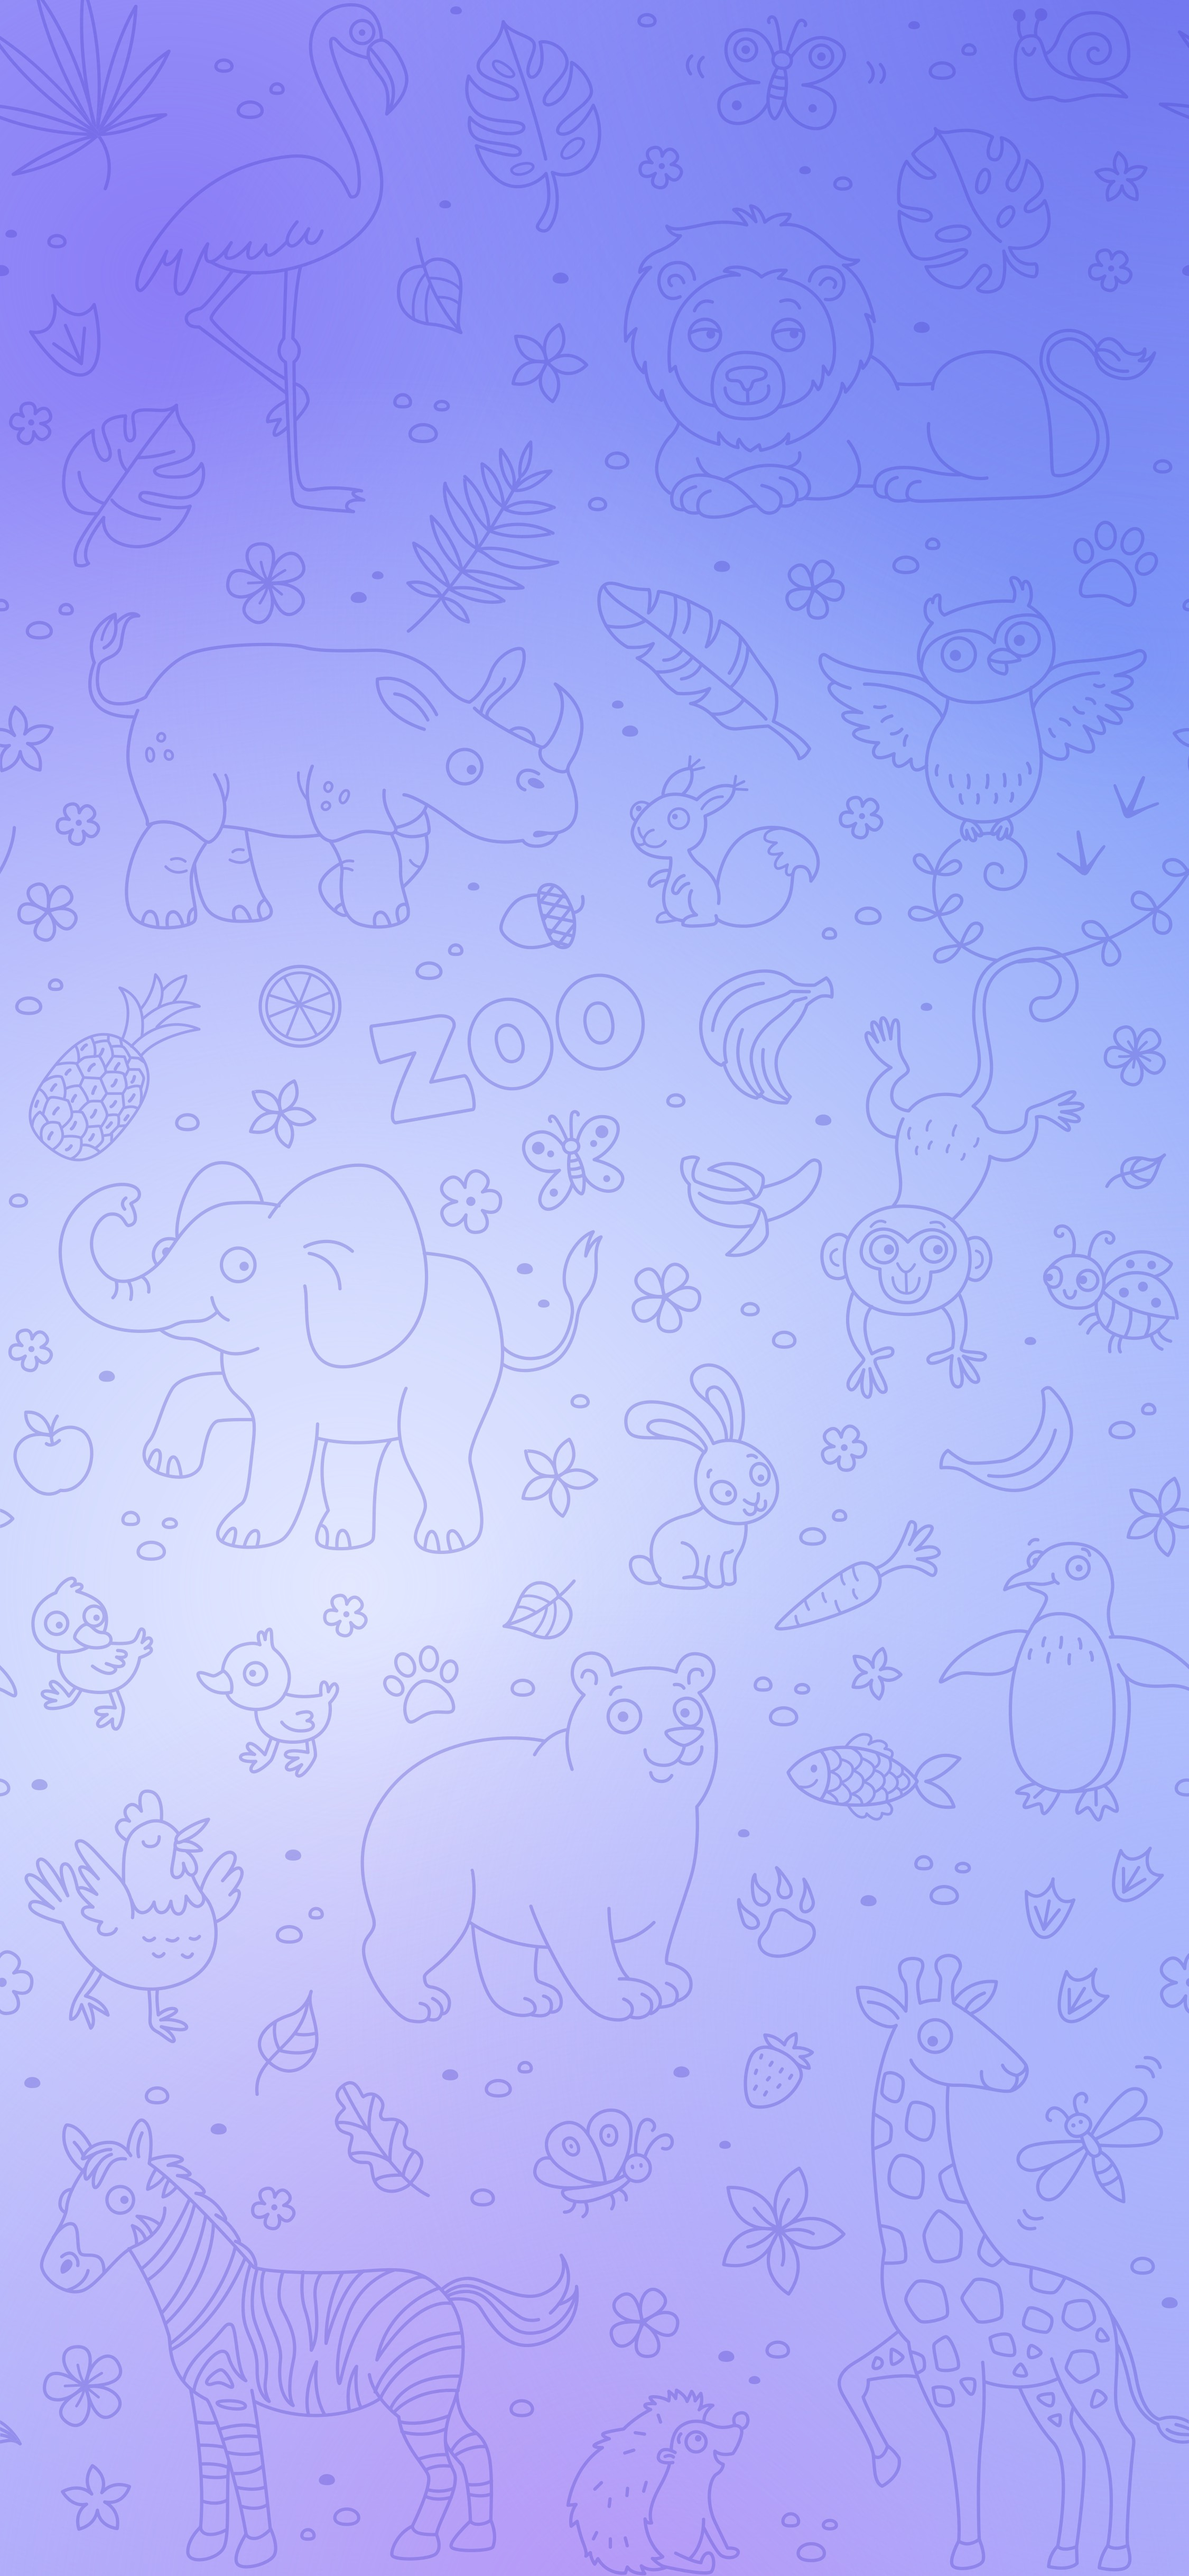
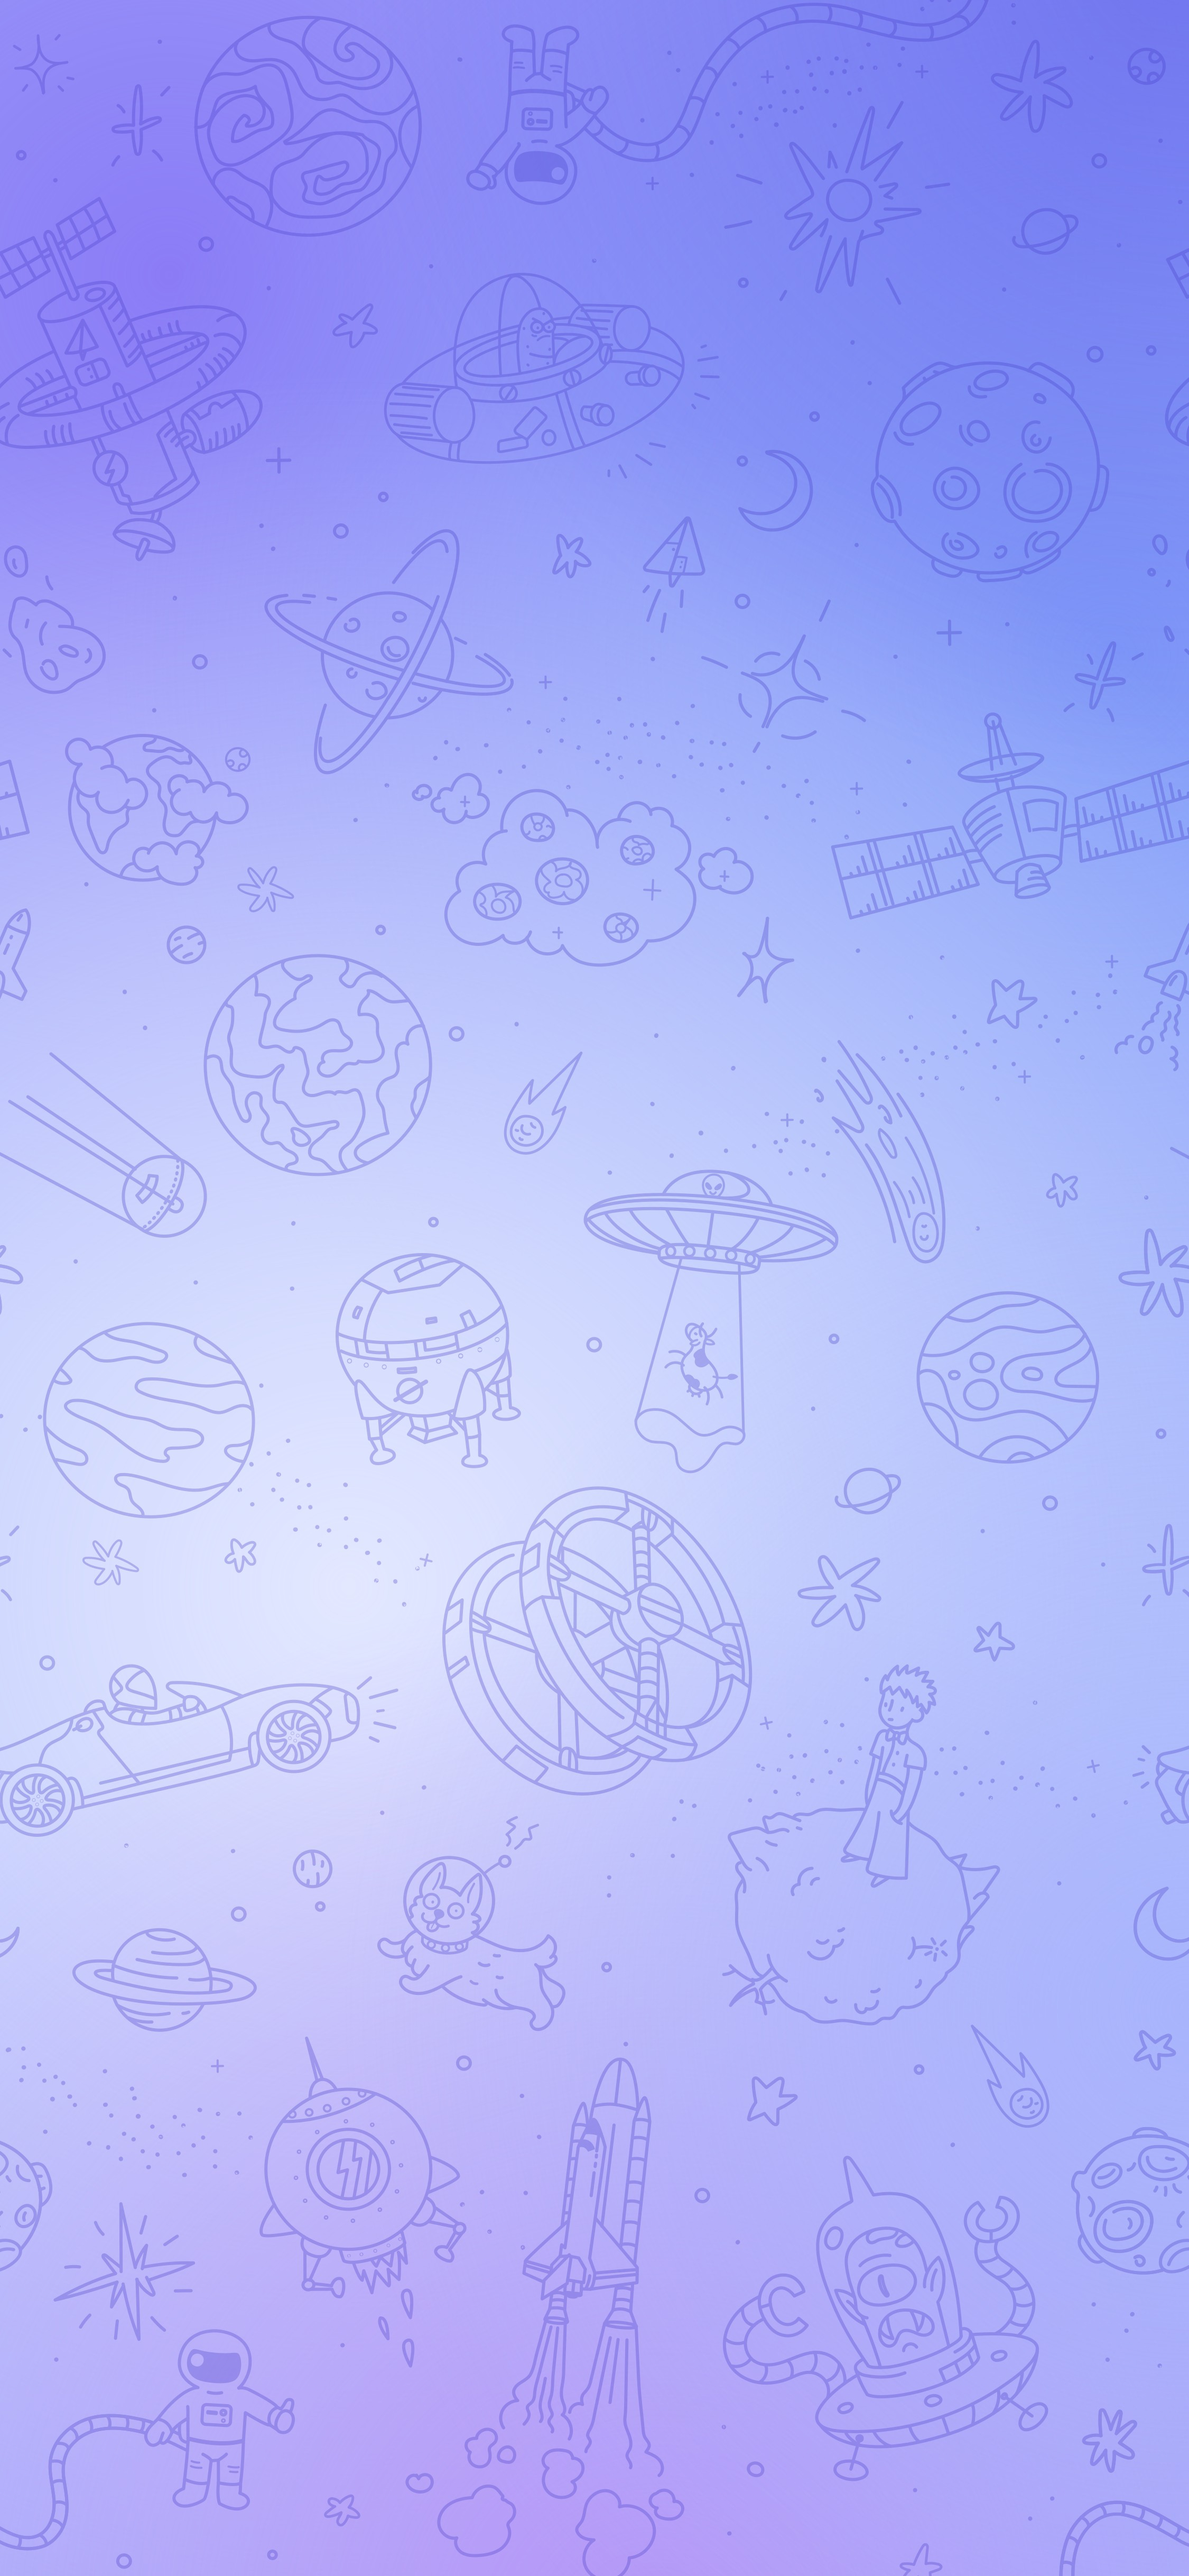
style(storefront): space-themed notifications background
Claude-Session: https://claude.ai/code/session_016tUZiXaKwTNWT5CBJCaqcb

diff --git a/CLAUDE.md b/CLAUDE.md
@@ -26,6 +26,10 @@ Variant/موجودی/سفارش/پرداخت/تخفیف. Full specification در
 
 ## 2. Current Status
 
+**آخرین کار: پسزمینهٔ `/notifications` برای مقایسه با طرح «فضایی» (سیاره/فضانورد) جایگزین شد (طرح باغوحش قبلی در Commit `29db8a3` است).** فقط `public/images/notifications-chat-bg.jpg` عوض شد. **NOT VERIFIED:** ظاهر روی گوشی واقعی.
+
+---
+
 **آخرین کار: پسزمینهٔ صفحهٔ `/notifications` با طرح جدید (باغوحش، گرادیان بنفش) عوض شد.** فقط فایل `public/images/notifications-chat-bg.jpg` (JPEG، کیفیت ۹۰) و رنگ Fallback (`#a9aef5`) در `notifications-chat.tsx` تغییر کرد. **NOT VERIFIED:** ظاهر روی گوشی واقعی و خوانایی حبابها روی پسزمینهٔ جدید.
 
 ---
@@ -90,7 +94,7 @@ Variant/موجودی/سفارش/پرداخت/تخفیف. Full specification در
 
 **آخرین کار: بازطراحی صفحه `/notifications` به سبک چت پیامرسان (Storefront).**
 
-- **UI:** `notifications-chat.tsx` (Client) + `notification-bubble.tsx` + `notification-cards.tsx` + `notification-actions.tsx`. قدیمیترین بالا، جدیدترین پایین؛ جداکنندهٔ روز («امروز/دیروز/۷ آبان»)، ساعت هر پیام (Asia/Tehran)، تیک تکی = دیدهنشده و تیک دوتایی آبی = دیدهشده (فقط کاربر واردشده؛ Guest تیک ندارد). **چیدمان (بازخورد کاربر):** حبابها سمت چپ (`self-end` در RTL)؛ برچسب نوع (سیستم/سفارش/...) پررنگ و به رنگ تم (`--color-primary`) بالای حباب؛ تصویر بعد از آن؛ **عنوان اعلان زیر تصویر** (بدون تصویر بالای متن) و آن هم به رنگ تم؛ دکمهٔ بازگشت هدر سمت چپ (`ArrowLeft`)؛ ردیف پایین حباب سمت راست با ترتیب «تیک، ساعت»؛ تصویر با فاصلهٔ ۴px از لبهٔ حباب و `rounded-[6px]`. پسزمینه `public/images/notifications-chat-bg.jpg` = **فایل اصلی کاربر بدون Resize** (جدید: طرح باغوحش بنفش، ۲۲۵۰×۴۸۷۲) با `next/image` + `unoptimized` (نسخهٔ ۹۰۰px اولیه روی موبایل زوم و تار بود) و لایهٔ `fixed` (روی دسکتاپ نسبت به قاب موبایل).
+- **UI:** `notifications-chat.tsx` (Client) + `notification-bubble.tsx` + `notification-cards.tsx` + `notification-actions.tsx`. قدیمیترین بالا، جدیدترین پایین؛ جداکنندهٔ روز («امروز/دیروز/۷ آبان»)، ساعت هر پیام (Asia/Tehran)، تیک تکی = دیدهنشده و تیک دوتایی آبی = دیدهشده (فقط کاربر واردشده؛ Guest تیک ندارد). **چیدمان (بازخورد کاربر):** حبابها سمت چپ (`self-end` در RTL)؛ برچسب نوع (سیستم/سفارش/...) پررنگ و به رنگ تم (`--color-primary`) بالای حباب؛ تصویر بعد از آن؛ **عنوان اعلان زیر تصویر** (بدون تصویر بالای متن) و آن هم به رنگ تم؛ دکمهٔ بازگشت هدر سمت چپ (`ArrowLeft`)؛ ردیف پایین حباب سمت راست با ترتیب «تیک، ساعت»؛ تصویر با فاصلهٔ ۴px از لبهٔ حباب و `rounded-[6px]`. پسزمینه `public/images/notifications-chat-bg.jpg` = **فایل اصلی کاربر بدون Resize** (طرح فضایی بنفش؛ قبلاً باغوحش) با `next/image` + `unoptimized` (نسخهٔ ۹۰۰px اولیه روی موبایل زوم و تار بود) و لایهٔ `fixed` (روی دسکتاپ نسبت به قاب موبایل).
 - **رفتار:** با ورود، اسکرول به اولین پیام خواندهنشده (با جداکنندهٔ «N پیام خواندهنشده») وگرنه انتهای چت؛ ۱.۵ ثانیه بعد `PATCH /notifications/read-all` و تیکها دوتایی میشوند (جداکننده تا پایان بازدید میماند). «پیامهای قدیمیتر» با `GET /notifications?view=chat&page=` و حفظ موقعیت اسکرول. `?page=` قدیمی صفحه حذف شد. Pagination سمت سرور فقط صفحه ۱ را میخواند.
 - **کارتها:** سفارش ← کارت خلاصه (شماره + Badge وضعیت یا «پرداخت موفق/ناموفق») + دکمهٔ «مشاهده جزئیات سفارش». کد تخفیف ← کارت (کد، عمومی/اختصاصی از `audience`، درصد، سقف، حداقل سفارش، اعتبار تا، زمان باقیمانده) + دکمهٔ «کپی کد تخفیف» (منقضی ← خاکستری و غیرفعال). سایر اعلانها با `link` ← دکمه با برچسب بر اساس نوع (`notificationLinkLabel`). **دکمهها (بازخورد کاربر):** حاشیهٔ گرادینتی همهٔ دکمهها با یک المان واحد ساخته میشود (`border-2 border-transparent` + `background: linear-gradient(fill) padding-box, linear-gradient(...) border-box` در `gradientBorderStyle`)؛ Wrapper گرادینتی با `p-[1.5px]` حذف شد چون حاشیه خراب/بریده دیده میشد. «کپی کد تخفیف» = Outline گرادینت؛ با کلیک **هم حاشیه هم متن** سبز میشوند (۱.۸ ثانیه) و برمیگردند؛ منقضی = خاکستری؛ دکمهٔ لینک اعلان سفارش = کوچک (`min-h-8`، `text-xs`) با حاشیهٔ گرادینت به رنگ وضعیت (`orderToneFor`: pending کهربایی، confirmed/processing/ready آبی، shipped فیروزهای، delivered سبز، cancelled/returned قرمز؛ پرداخت موفق سبز/ناموفق قرمز)؛ دکمهٔ لینک سایر اعلانها = کوچک (`min-h-9`، `text-xs`) Outline لاجوردی تم با `--color-primary-soft`. کارت سفارش زیر شماره، عنوان «وضعیت سفارش/پرداخت» + Badge را نشان میدهد؛ برای اعلانهای سفارش قدیمی (`meta=null`) شماره/وضعیت هنگام خروجی از عنوان+متن Snapshot بازسازی میشود (`inferLegacyOrderMeta`، بدون حدس و بدون تغییر داده ذخیرهشده). **عرض همهٔ حبابها ثابت** `w-[min(288px,100%)]`.
 - **Backend (افزایشی):** فیلد `Notification.meta` (`Mixed`، پیشفرض `null`؛ نوع `NotificationMeta` در `constants.ts`: `order{orderNumber,status?,payment?}` / `coupon{code,discountPercentage,maxDiscountAmount,minOrderAmount,expiresAt(ISO)}`) توسط `events.ts` پر میشود. `listVisibleNotificationsDetailed` (متن کامل + `meta` + `generatedAt`) و پارامتر `?view=chat` روی `GET /api/v1/notifications` (پیشفرض بدون تغییر؛ پاپآپ Bell دستنخورده). `stripCouponLines` خطوط تکراری کد را از متن حذف میکند.
